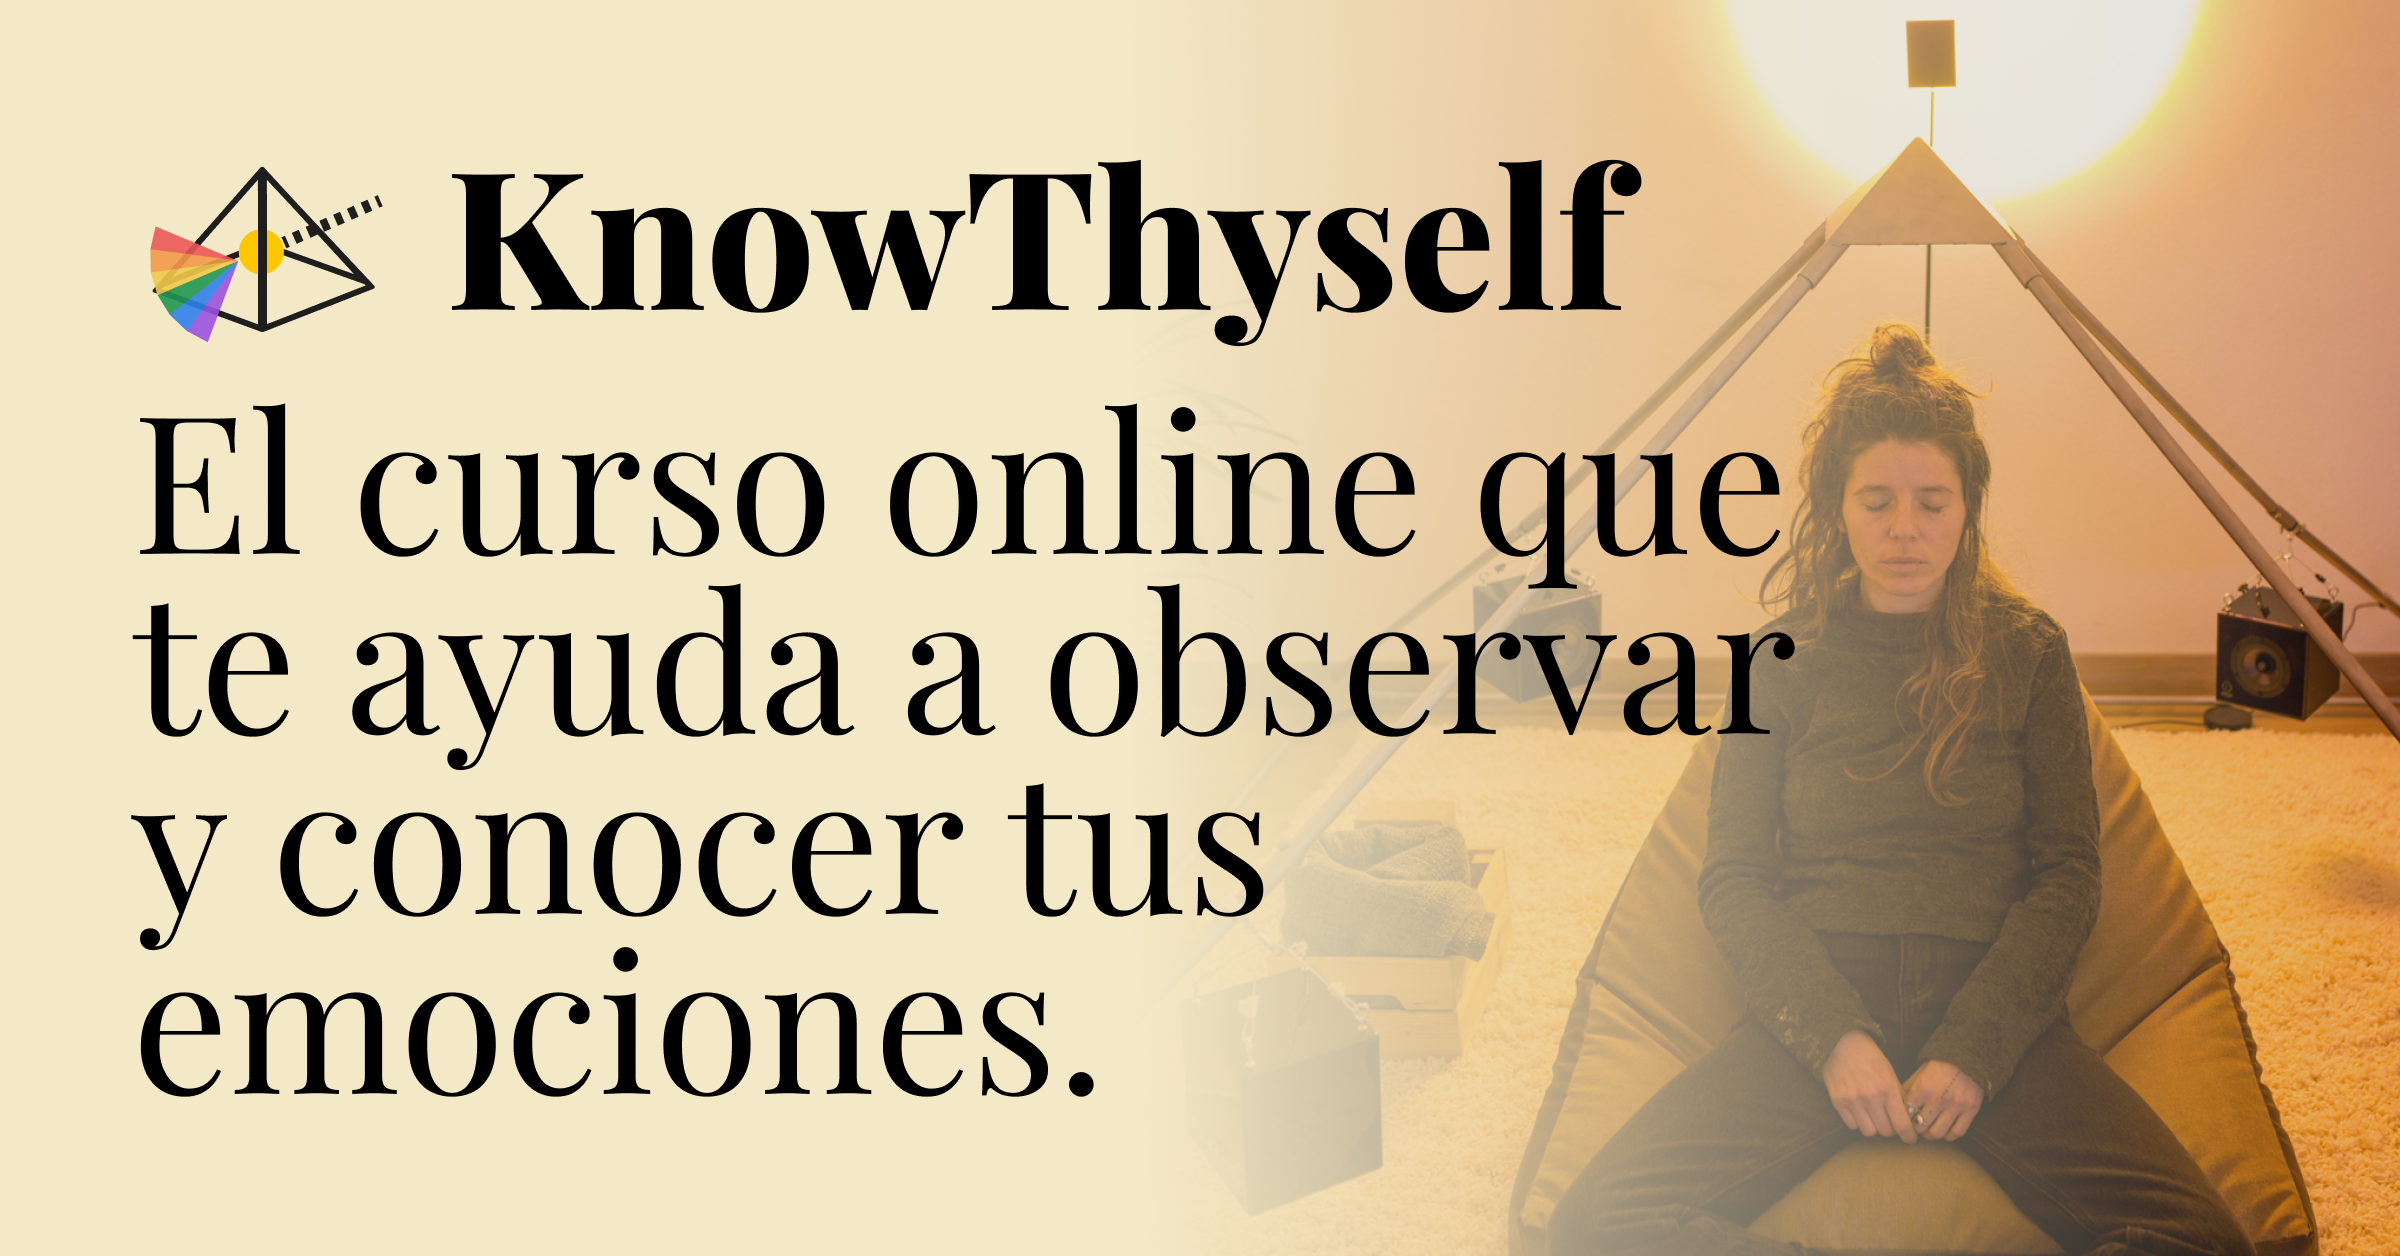
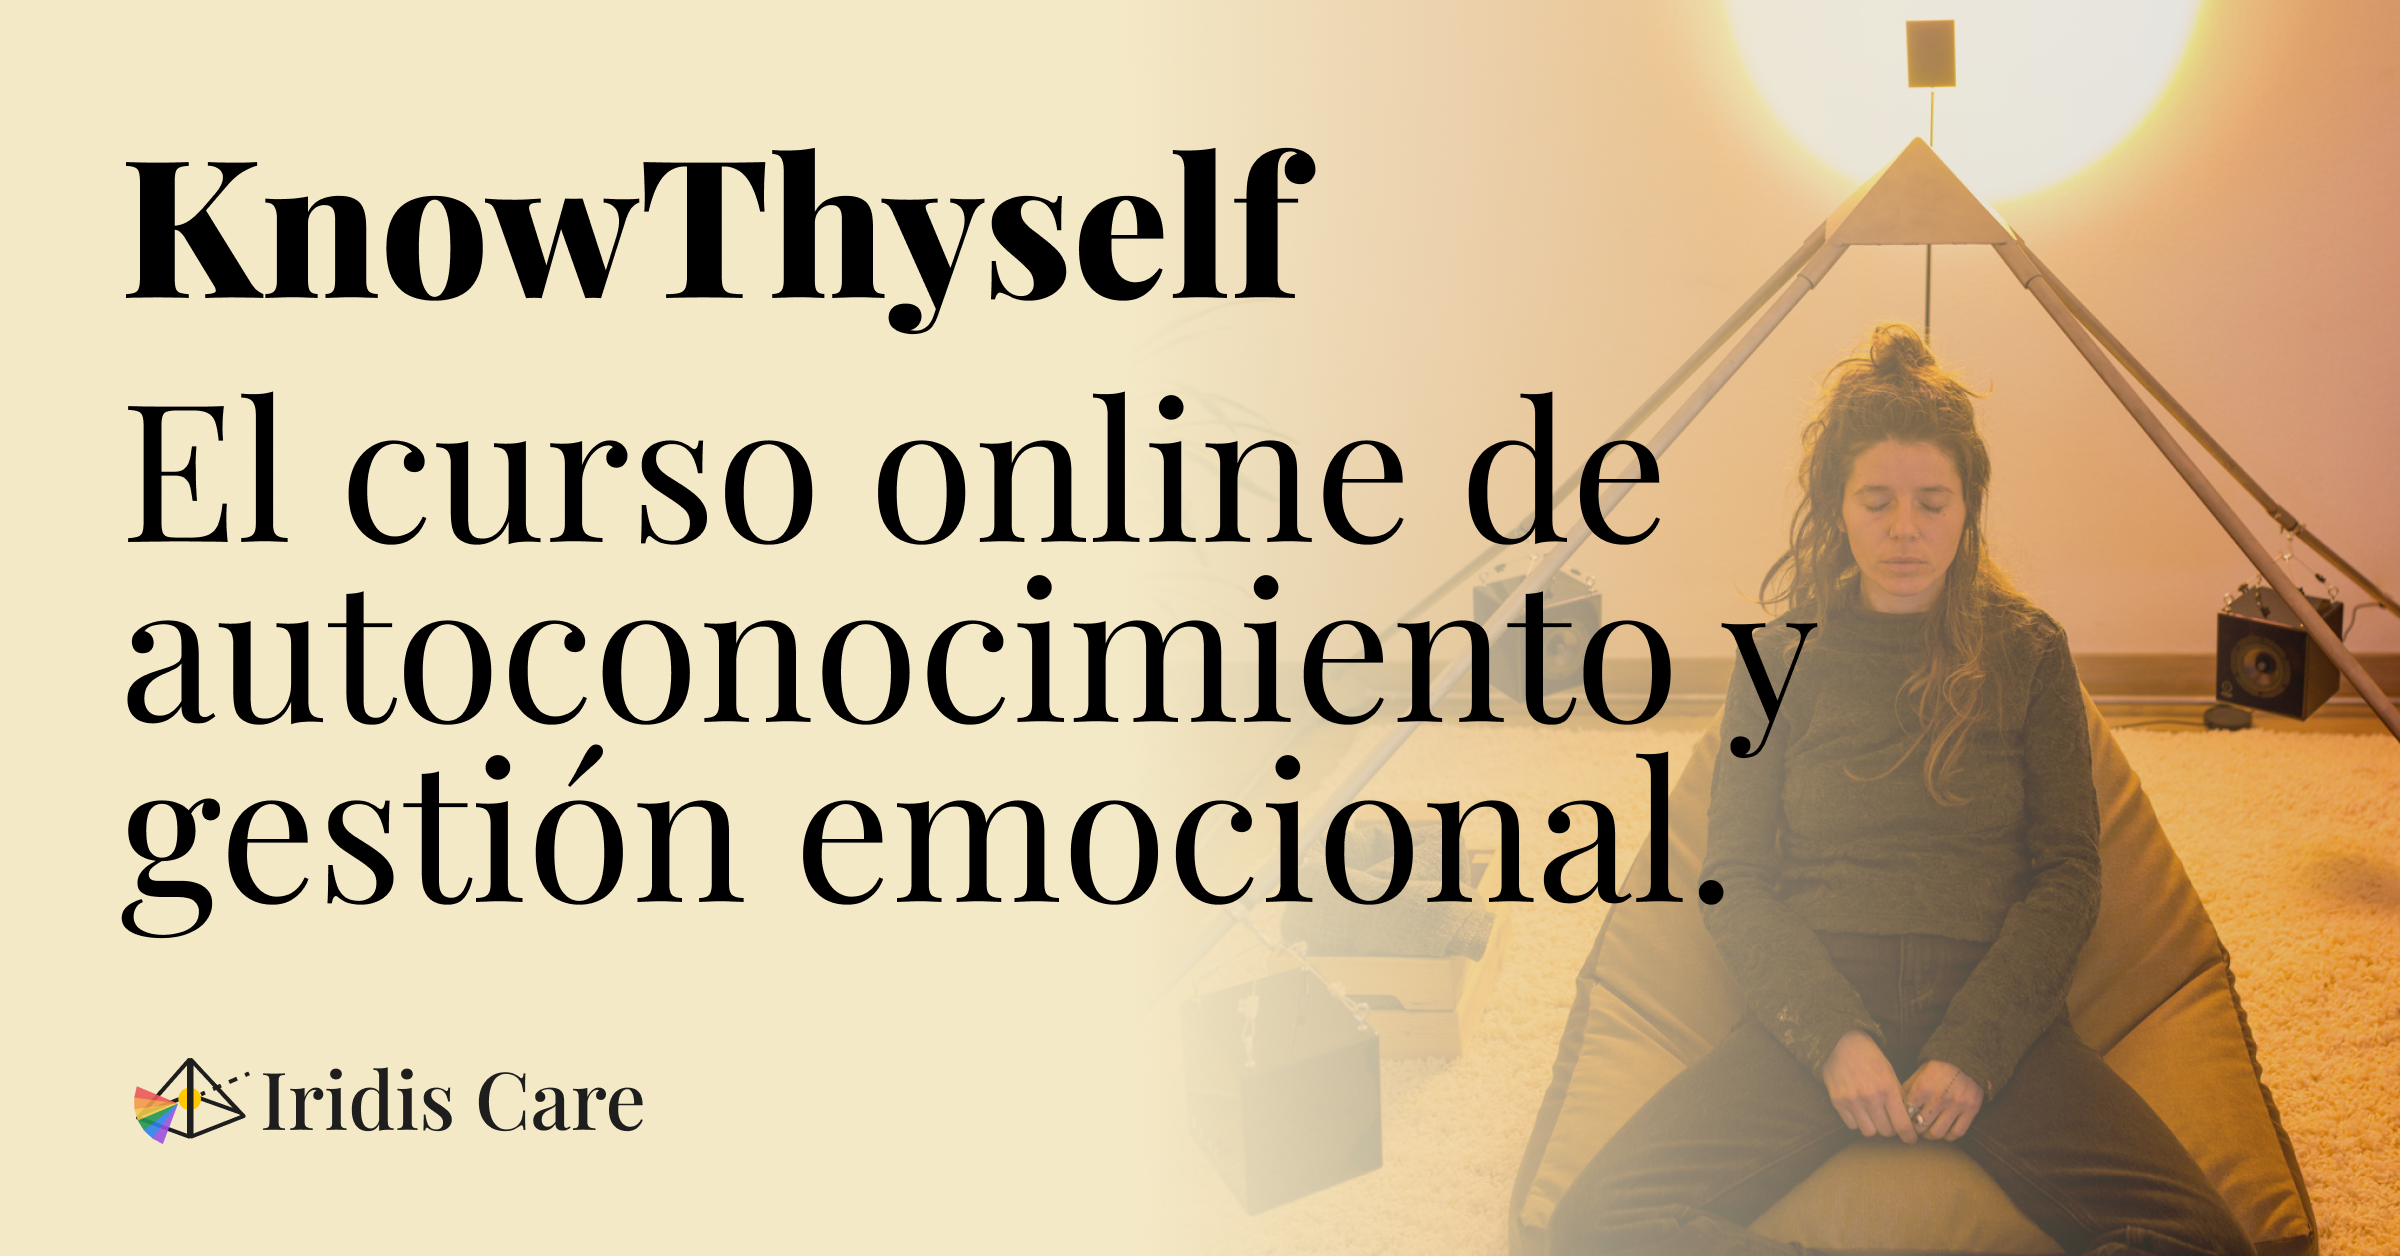
update

Changed region(s): [[0.0312, 0.3105, 0.75, 0.9315], [0.0312, 0.1242, 0.6875, 0.2795], [0.7188, 0.4347, 0.75, 0.4658]]

diff --git a/pages/landings/knowthyself.md b/pages/landings/knowthyself.md
@@ -1,5 +1,5 @@
 ---
-title: "KnowThyself - El curso online de autoconocimiento y gestión de emociones pare reducir el estrés"
+title: "KnowThyself de Iridis - El curso online de autoconocimiento y gestión emocional"
 description: Aprenderás los conceptos y herramientas básicas para no ser esclavo del estrés y tus emociones.
 image: /assets/images/landings/knowthyself.png
 permalink: /knowthyself
